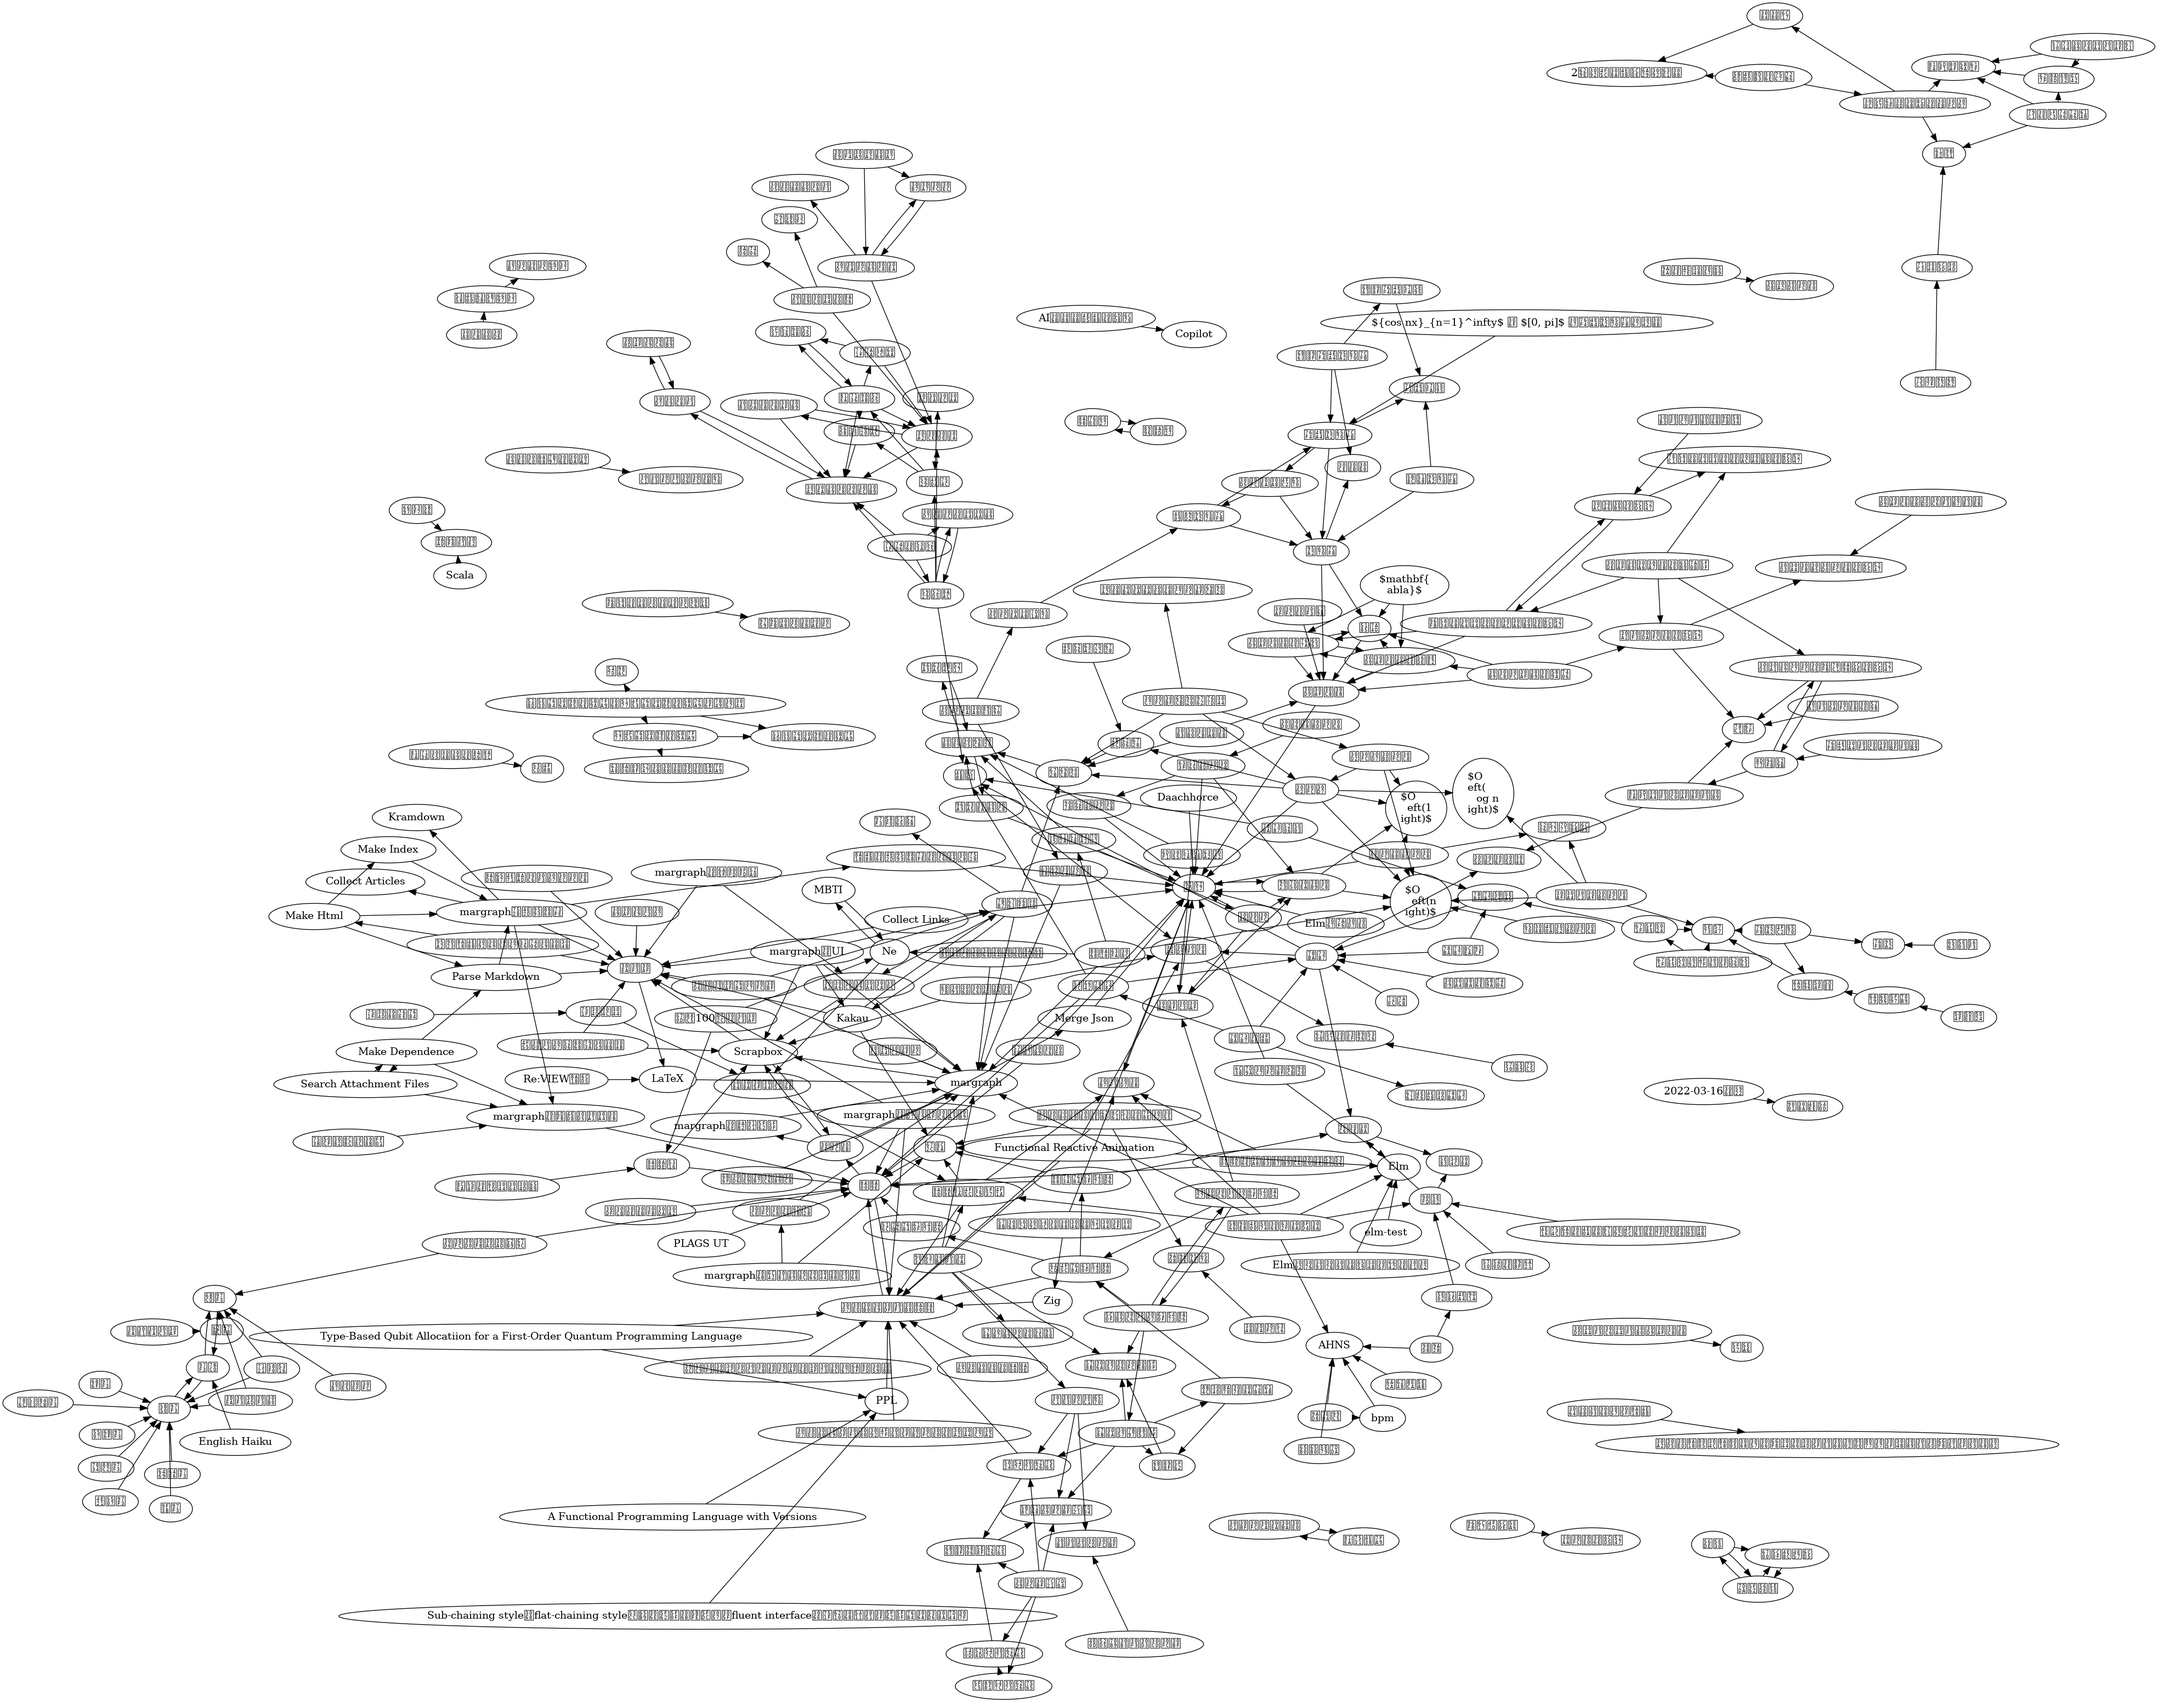
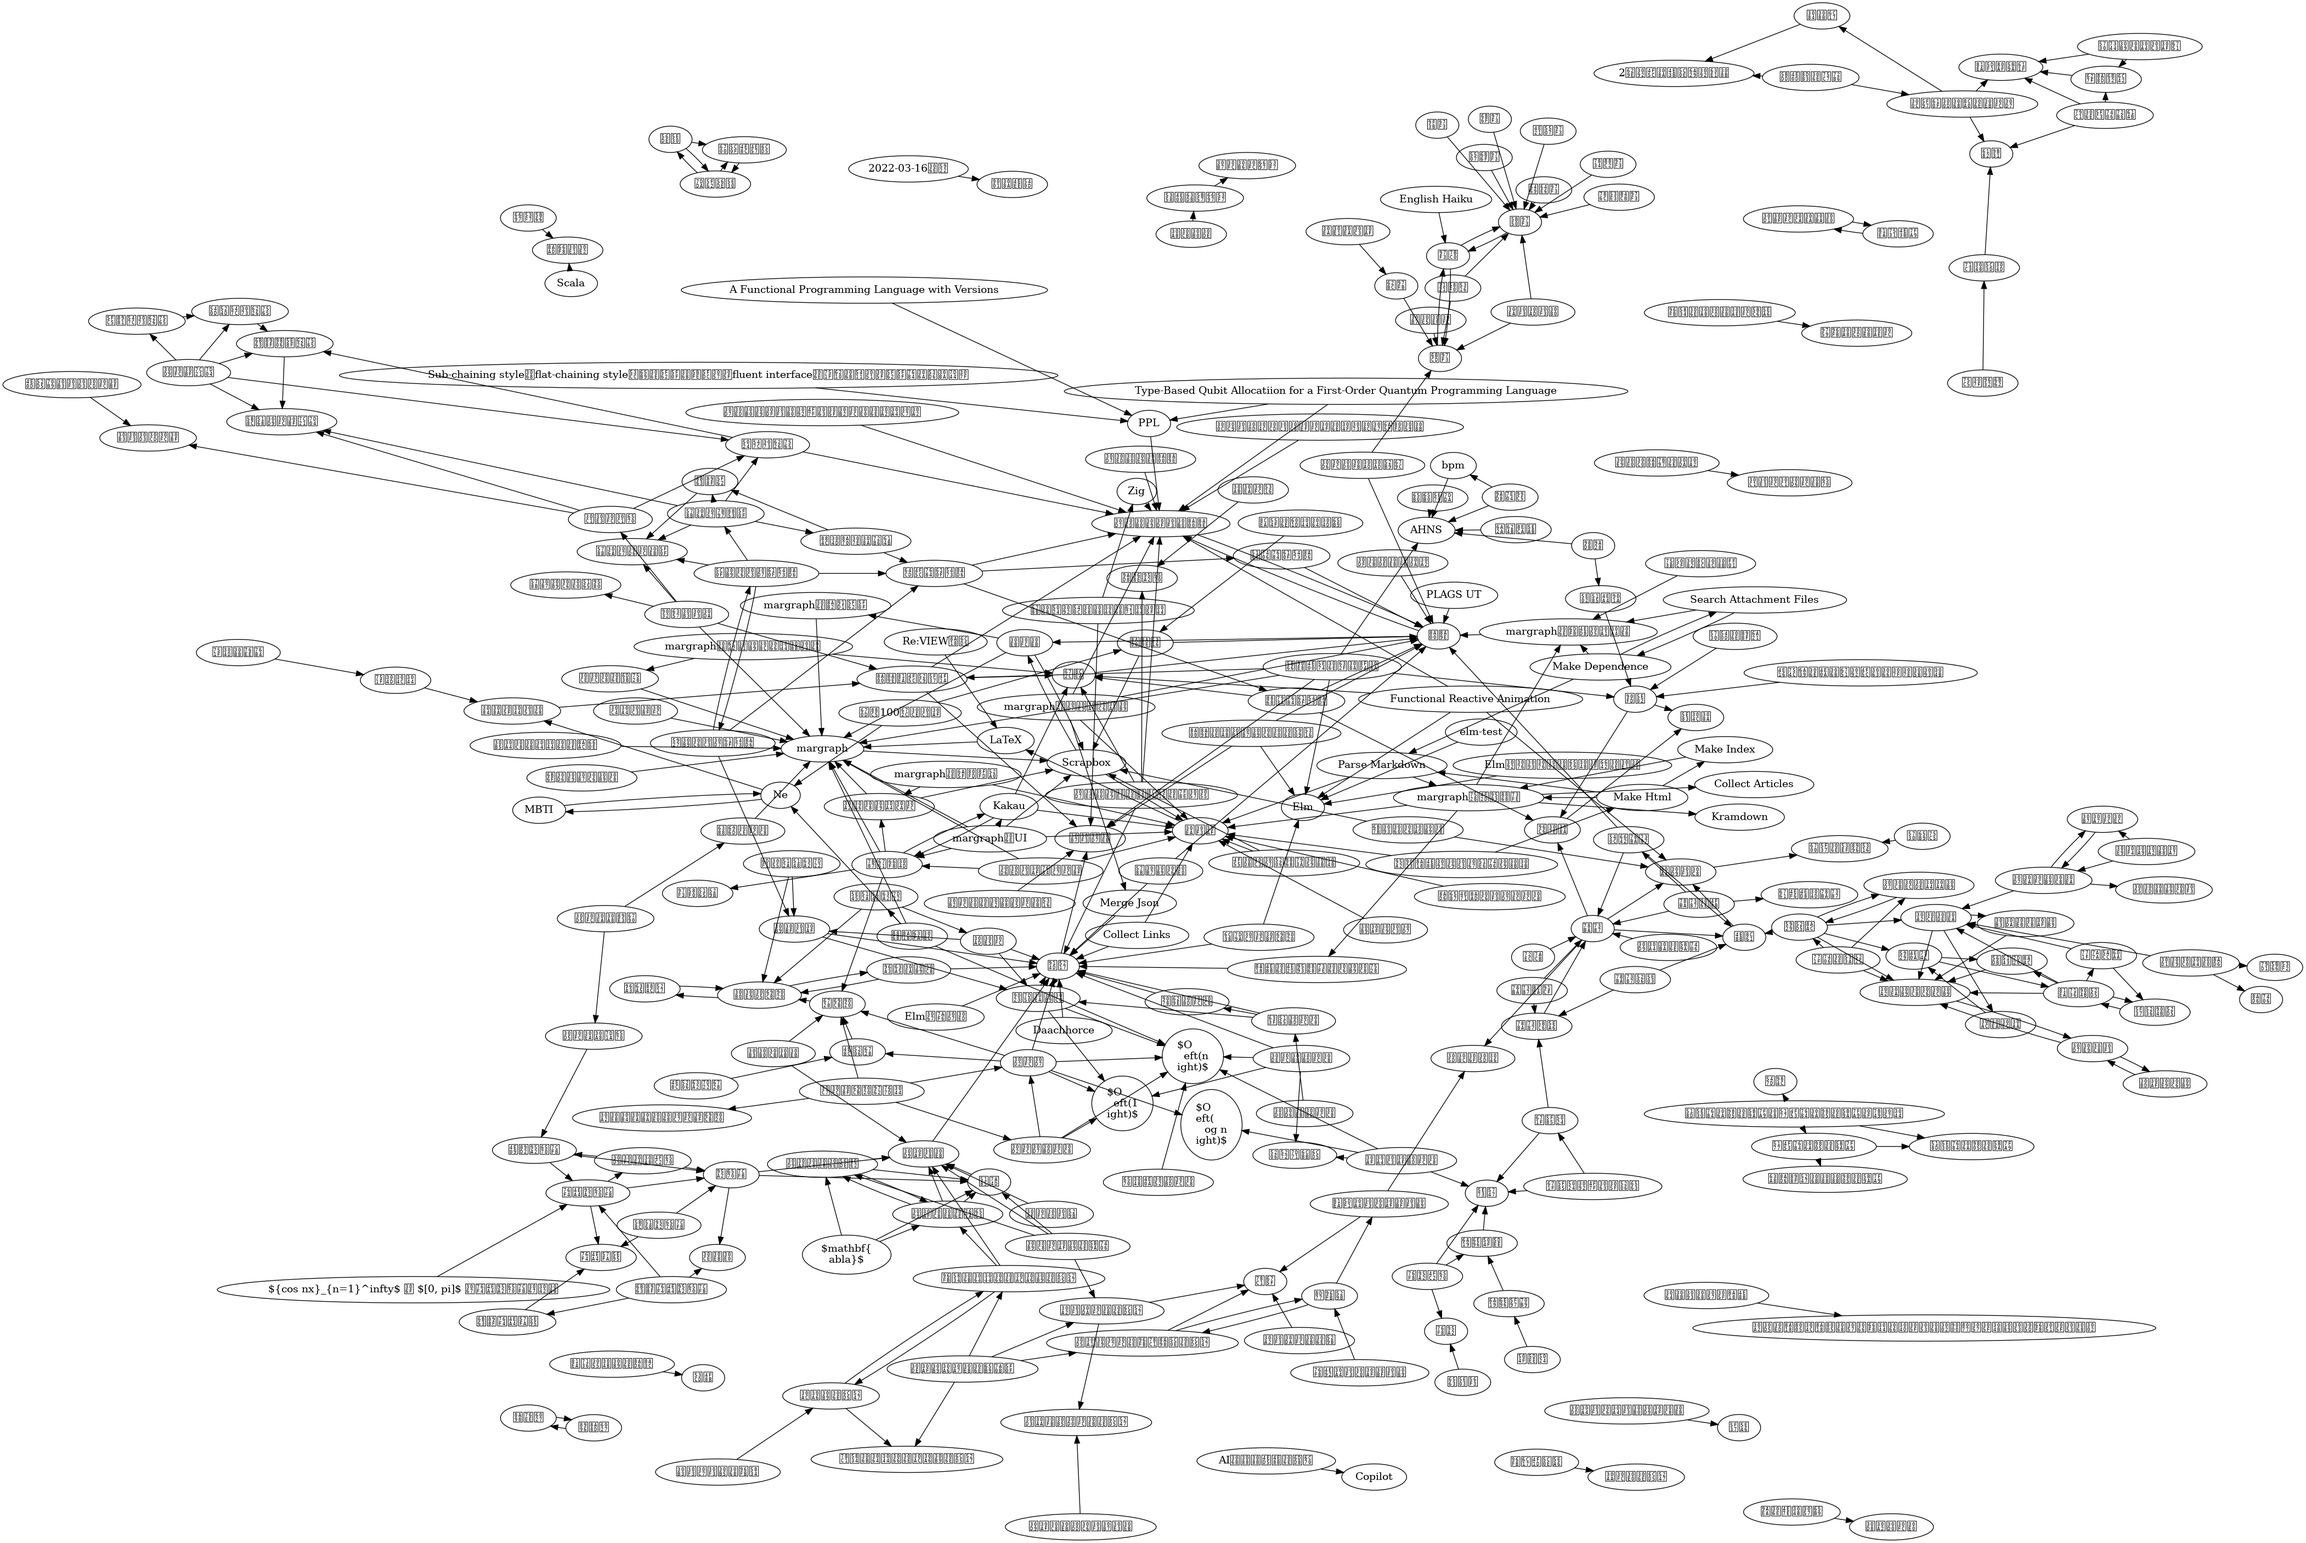
deploy: eea7d6381aa02572c311512dc463b9d1e1ffe31d

diff --git a/other/game-module.html b/other/game-module.html
@@ -35,11 +35,17 @@
             
               <div><ul>
   <li>ゲームにはさまざまな機能がある</li>
-  <li>それぞれをモジュール化して、追加や削除を簡単に行えるようにしたい</li>
+  <li>それぞれをモジュール化して、追加や削除を簡単に行えるようにしたい
+    <ul>
+      <li>開発の高速化につながる</li>
+      <li><a href="../other/senren.html">シンプル</a>なシステムの上に複雑な機能をつけていける</li>
+    </ul>
+  </li>
   <li>自由度を高めるためにはさまざまな機能が用意できればいいのではないか
     <ul>
       <li>例えばelona</li>
       <li>マイクラも、ブロックとしてモジュール化した上で様々な機能を持たせてる</li>
+      <li>ヘビクエストは全てアイテムで管理してる</li>
     </ul>
   </li>
 </ul>
@@ -90,6 +96,63 @@
 
       
       <div class="link-network">
+        
+          <div class="row flex-nowrap overflow-auto">
+            <div class="col-4">
+              <div class="card h-100">
+                <div class="card-body">
+                  <h5 class="card-title fs-6"><a href="../other/senren.html">シンプル</a></h5>
+                  <p class="card-text">- 機能をシンプルにするには、大きく2つあると思う - 機能を...</p>
+                </div>
+              </div>
+            </div>
+            
+              <div class="col-4">
+                <div class="card h-100">
+                  <div class="card-body">
+                    <h5 class="card-title fs-6"><a href="../other/undergraduate-1.html">学部一年の振り返り</a></h5>
+                    <p class="card-text">- プログラミング関連について   - Rustを触ってみたり...</p>
+                  </div>
+                </div>
+              </div>
+            
+              <div class="col-4">
+                <div class="card h-100">
+                  <div class="card-body">
+                    <h5 class="card-title fs-6"><a href="../programming/makeing-language-workspace.html">言語自作勉強会</a></h5>
+                    <p class="card-text">の反省 ## 概要 事前に私が作った[baby-interpr...</p>
+                  </div>
+                </div>
+              </div>
+            
+              <div class="col-4">
+                <div class="card h-100">
+                  <div class="card-body">
+                    <h5 class="card-title fs-6"><a href="../programming/type-and-value.html">型と値を同じように扱いたい</a></h5>
+                    <p class="card-text">- 型と値を同じように扱いたい   - よりシンプルに、抽象化...</p>
+                  </div>
+                </div>
+              </div>
+            
+              <div class="col-4">
+                <div class="card h-100">
+                  <div class="card-body">
+                    <h5 class="card-title fs-6"><a href="../programming/algorithms-and-data-structure/07a-array.html">配列</a></h5>
+                    <p class="card-text">メモリ上で連続した領域。言わずとしれたデータ構造 リスト構造と...</p>
+                  </div>
+                </div>
+              </div>
+            
+              <div class="col-4">
+                <div class="card h-100">
+                  <div class="card-body">
+                    <h5 class="card-title fs-6"><a href="../scraps/shifting-language-eco-system.html">言語のエコシステムの変化</a></h5>
+                    <p class="card-text">https://izumisy.work/entry/2021...</p>
+                  </div>
+                </div>
+              </div>
+            
+          </div>
         
       </div>
       

diff --git a/other/senren.html b/other/senren.html
@@ -163,6 +163,18 @@
             <div class="col-4">
               <div class="card h-100">
                 <div class="card-body">
+                  <h5 class="card-title fs-6"><a href="../other/game-module.html">ゲームのモジュール化</a></h5>
+                  <p class="card-text">- ゲームにはさまざまな機能がある - それぞれをモジュール化...</p>
+                </div>
+              </div>
+            </div>
+            
+          </div>
+        
+          <div class="row flex-nowrap overflow-auto">
+            <div class="col-4">
+              <div class="card h-100">
+                <div class="card-body">
                   <h5 class="card-title fs-6"><a href="../programming/makeing-language-workspace.html">言語自作勉強会</a></h5>
                   <p class="card-text">の反省 ## 概要 事前に私が作った[baby-interpr...</p>
                 </div>

diff --git a/other/undergraduate-1.html b/other/undergraduate-1.html
@@ -278,6 +278,15 @@
               <div class="col-4">
                 <div class="card h-100">
                   <div class="card-body">
+                    <h5 class="card-title fs-6"><a href="../other/game-module.html">ゲームのモジュール化</a></h5>
+                    <p class="card-text">- ゲームにはさまざまな機能がある - それぞれをモジュール化...</p>
+                  </div>
+                </div>
+              </div>
+            
+              <div class="col-4">
+                <div class="card h-100">
+                  <div class="card-body">
                     <h5 class="card-title fs-6"><a href="../programming/type-and-value.html">型と値を同じように扱いたい</a></h5>
                     <p class="card-text">- 型と値を同じように扱いたい   - よりシンプルに、抽象化...</p>
                   </div>

diff --git a/programming/makeing-language-workspace.html b/programming/makeing-language-workspace.html
@@ -385,6 +385,15 @@
               <div class="col-4">
                 <div class="card h-100">
                   <div class="card-body">
+                    <h5 class="card-title fs-6"><a href="../other/game-module.html">ゲームのモジュール化</a></h5>
+                    <p class="card-text">- ゲームにはさまざまな機能がある - それぞれをモジュール化...</p>
+                  </div>
+                </div>
+              </div>
+            
+              <div class="col-4">
+                <div class="card h-100">
+                  <div class="card-body">
                     <h5 class="card-title fs-6"><a href="../programming/type-and-value.html">型と値を同じように扱いたい</a></h5>
                     <p class="card-text">- 型と値を同じように扱いたい   - よりシンプルに、抽象化...</p>
                   </div>

diff --git a/programming/algorithms-and-data-structure/07a-array.html b/programming/algorithms-and-data-structure/07a-array.html
@@ -139,6 +139,15 @@
               <div class="col-4">
                 <div class="card h-100">
                   <div class="card-body">
+                    <h5 class="card-title fs-6"><a href="../../other/game-module.html">ゲームのモジュール化</a></h5>
+                    <p class="card-text">- ゲームにはさまざまな機能がある - それぞれをモジュール化...</p>
+                  </div>
+                </div>
+              </div>
+            
+              <div class="col-4">
+                <div class="card h-100">
+                  <div class="card-body">
                     <h5 class="card-title fs-6"><a href="../../programming/makeing-language-workspace.html">言語自作勉強会</a></h5>
                     <p class="card-text">の反省 ## 概要 事前に私が作った[baby-interpr...</p>
                   </div>

diff --git a/programming/type-and-value.html b/programming/type-and-value.html
@@ -126,6 +126,15 @@
               <div class="col-4">
                 <div class="card h-100">
                   <div class="card-body">
+                    <h5 class="card-title fs-6"><a href="../other/game-module.html">ゲームのモジュール化</a></h5>
+                    <p class="card-text">- ゲームにはさまざまな機能がある - それぞれをモジュール化...</p>
+                  </div>
+                </div>
+              </div>
+            
+              <div class="col-4">
+                <div class="card h-100">
+                  <div class="card-body">
                     <h5 class="card-title fs-6"><a href="../programming/makeing-language-workspace.html">言語自作勉強会</a></h5>
                     <p class="card-text">の反省 ## 概要 事前に私が作った[baby-interpr...</p>
                   </div>

diff --git a/scraps/shifting-language-eco-system.html b/scraps/shifting-language-eco-system.html
@@ -305,6 +305,15 @@
               <div class="col-4">
                 <div class="card h-100">
                   <div class="card-body">
+                    <h5 class="card-title fs-6"><a href="../other/game-module.html">ゲームのモジュール化</a></h5>
+                    <p class="card-text">- ゲームにはさまざまな機能がある - それぞれをモジュール化...</p>
+                  </div>
+                </div>
+              </div>
+            
+              <div class="col-4">
+                <div class="card h-100">
+                  <div class="card-body">
                     <h5 class="card-title fs-6"><a href="../programming/makeing-language-workspace.html">言語自作勉強会</a></h5>
                     <p class="card-text">の反省 ## 概要 事前に私が作った[baby-interpr...</p>
                   </div>
